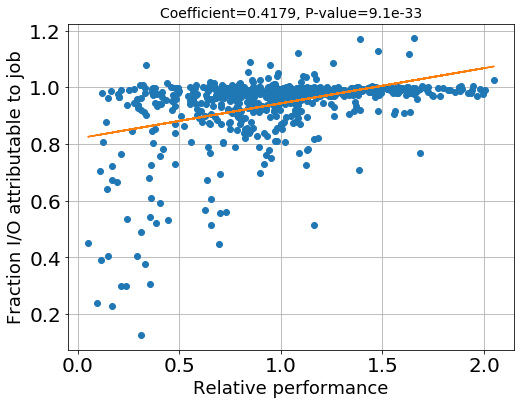
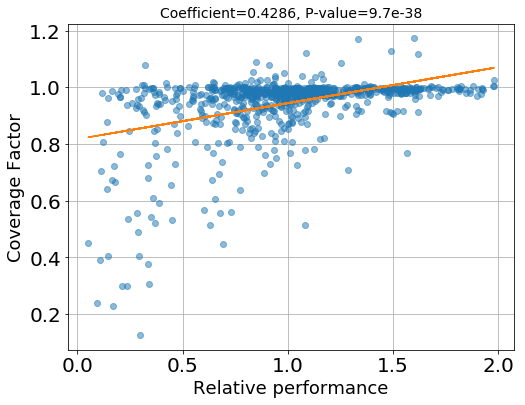
build out the results section a little more, thought it's getting repetetive; also added some of the narrative to the discussion section sans actual data

diff --git a/holistic-io.tex b/holistic-io.tex
@@ -341,23 +341,40 @@ nodes.  By comparison, the three Lustre file systems tested each use a common
 pool of I/O nodes for all of their traffic. \todo{make this less vague}
 
 When grouped by each specific application and read/write mode (Figure
-\ref{fig:tokio-abc-perf-boxplots}), the general trend of file-per-process (fpp)
-I/O performing faster than shared-file becomes evident across all file systems.
-The variance for each file system in Figure \ref{fig:perf-summary-boxplots-fs}
-is proportionate for all applications tested and is not the result of one
-specific workload demonstrating significantly higher variance than the others.  
-That said, there are a subset of exceptions to this; for example, the HACC
-workload demonstrates susceptibility to a long tail of performance degradation
-on mira-fs1 despite that file system's overall lower variance.  The specific
-reason for this will be explored in Section \ref{discussion}.
+\ref{fig:tokio-abc-perf-boxplots}), it becomes clear that the variance of each
+file system in Figure \ref{fig:perf-summary-boxplots-fs} is proportionate for
+all applications tested and is not the result of one specific workload
+demonstrating significantly higher variance than the others.  For example, the
+the trend of file-per-process (fpp) I/O performing faster than shared-file is
+observed across all file systems evaluated, contributing equally to the 
+file system-wide variance shown in Figure \ref{fig:perf-summary-boxplots-fs}.
+
+That said, the variance in performance \emph{within} each application is a
+function of each file system.  For example, the HACC workload demonstrates
+susceptibility to a long tail of performance degradation on mira-fs1 despite
+that file system's overall lower performance variance.  Similarly, scratch3
+demonstrates very broad performance variation for the VPIC write workload that
+is a marked departure from the very tight distributions of VPIC write
+performance on all other file systems.
+
+\textbf{Thus, Figure \ref{fig:tokio-abc-perf-boxplots} demonstrates that the
+performance variability of a file system is not an intrinsic property};
+different I/O patterns result in different levels of variability.  Furthermore,
+these behaviors are not a function of the parallel file system architecture
+either; because scratch1/scratch2/scratch3 are all Lustre file systems (at the
+same version of Lustre), the differences between them are either a result of
+their different hardware configurations (scratch3 vs. scratch1/scratch2), or
+even the specific user distributions across identically configured hardware
+(scratch1 and scratch2).
 
 \begin{figure}[t]
 \centering
 \includegraphics[width=1.0\columnwidth]{figs/perf-boxplots-per-fs.png}
 \caption{TOKIO-ABC I/O performance for Edison (\texttt{scratch1},
 \texttt{scratch2}, \texttt{scratch3}) and Mira (\texttt{mira-fs1}) normalized to
-the mean performance of each file system.  Whiskers represent the 5th and 95th
-percentiles.}
+the mean of all tests performed on each file system.  Each box reflects the
+distribution of all four application workloads and both read and write
+performance. Whiskers represent the 5th and 95th percentiles.}
 \label{fig:perf-summary-boxplots-fs}
 \end{figure}
 
@@ -370,43 +387,6 @@ percentiles.}
 \label{fig:tokio-abc-perf-boxplots}
 \end{figure}
 
-
-%%% Glenn: the following figures are informationally sparse since I don't think
-%%% we want to talk about the time dependence of performance.  I added box plots
-%%% to (hopefully) more concisely show the distribution of performance.
-%
-% Figures \ref{fig:tokio-abc-perf-mira-fs1} and \ref{fig:tokio-abc-perf-edison-scratch1}
-% show the performance of each TOKIO-ABC benchmark run on Mira's \texttt{mira-fs1} GPFS
-% file system and Edison's \texttt{scratch1} Lustre file system, respectively. 
-% 
-% \begin{figure}[h]
-% \centering
-%     \subfigure[write performance]{
-%         \includegraphics[width=\columnwidth]{figs/mira-fs1-write-perf.pdf}
-%         \label{fig:tokio-abc-perf-mira-fs1-write}
-%     }
-%     \subfigure[read performance]{
-%         \includegraphics[width=\columnwidth]{figs/mira-fs1-read-perf.pdf}
-%         \label{fig:tokio-abc-perf-mira-fs1-read}
-%     }
-% \caption{I/O performance for TOKIO-ABC runs on Mira's \texttt{mira-fs1} GPFS file system.}
-% \label{fig:tokio-abc-perf-mira-fs1}
-% \end{figure}
-% 
-% \begin{figure}[h]
-% \centering
-%     \subfigure[write performance]{
-%         \includegraphics[width=\columnwidth]{figs/edison-scratch1-write-perf.pdf}
-%         \label{fig:tokio-abc-perf-edison-scratch1-write}
-%     }
-%     \subfigure[read performance]{
-%         \includegraphics[width=\columnwidth]{figs/edison-scratch1-read-perf.pdf}
-%         \label{fig:tokio-abc-perf-edison-scratch1-read}
-%     }
-% \caption{I/O performance for TOKIO-ABC runs on Edison's \texttt{scratch1} Lustre file system.}
-% \label{fig:tokio-abc-perf-edison-scratch1}
-% \end{figure}
-
 By aggregating the server-side I/O traffic from LMT and ggiostat during the time
 each test was run, we can also define the \emph{coverage factor} ($CF$) of a
 job:
@@ -417,23 +397,25 @@ CF = \frac{N_{\textup{bytes}}^{\textup{Darshan}}}
 \left [ N_{\textup{bytes}}^{\textup{LMT,ggiostat}} \right ] }
 \]
 
-This metric provides a direct indication of if a job had exclusive access to the
-file systems' bandwidth while it was running; a coverage factor of 1.0 indicates
-that all of the server-side bytes were caused by the job that generated the
-Darshan log, while a converage factor of 0.5 indicates that only half of the
-server-side traffic was attributable to the job.
+This metric is a direct reflection of how much I/O traffic the job in question
+was competing against in the underlying file systems.  When $CF = 1.0$,
+all of the server-side bytes were caused by the job that generated the Darshan
+log, while $CF = 0.5$ indicates that only half of the server-side traffic was
+attributable to the job.  In practice, it is possible to observe $CF > 1.0$ if
+the server-side monitoring (e.g., LMT or ggiostat) did not capture data from all
+servers during a polling interval due to UDP packet loss or other factors.
 
-Figure \ref{fig:cdf-coverage} demonstrates the distribution of coverage
-factors across all experiments run.  This distribution indicates that the
-majority of tests ($> 85\%$) have high coverage factor ($ CF > 0.90 $), which
-is consistent with the observation that I/O occurs in bursts\cite{Liu2016}\todo{more}, and the
+The distribution of coverage factors across all experiments run are shown in
+Figure \ref{fig:cdf-coverage}, which indicates that the majority of tests
+($> 85\%$) have high coverage factor ($ CF > 0.90 $).  This is consistent with
+the observation that I/O occurs in bursts~\cite{Carns2011,Liu2016}, and the
 probability of two bursts coinciding and causing interference is relatively
 low.  Despite this low incidence of overlapping bursts, though, the cumulative
-distribution function of performance relative to the peak observed bandwidth
-(Figure \ref{fig:cdf-performance}) is far more evenly distributed; this is a
-clear indication that server-side interference (of which the coverage factor is
-a direct indicator) is far from the only contributor to sub-optimal peformance
-on all file systems tested.
+distribution function (CDF) of performance relative to the peak observed
+bandwidth (Figure \ref{fig:cdf-performance}) is far more broadly distributed.
+This is a clear indication that server-side interference, represented by the
+coverage factor, is only one of many contributors to sub-optimal peformance on
+all file systems tested.
 
 \begin{figure}[h]
 \centering
@@ -451,35 +433,34 @@ factor (\ref{fig:cdf-performance}).}
 \label{fig:coverage-factor-distribution}
 \end{figure}
 
+To more directly understand this relationship between application-side
+performance and server-side contention, we plot these two variables for each
+experiment in Figure \ref{fig:correlate-perf-and-fstraffic}.  Although there is
+no striking visual correlation, this diagram does show that high performance
+($performance > 1.0$) is very unlikely even when server-side contention is only
+modestly high ($CF \leq 0.8$).  More quantitatively, the Pearson correlation
+coefficient between application performance and the coverage factor is modest
+(0.429) but significant (p-value $\approx 10^{-37}$).  This is consistent with
+the previous qualitative observation that the coverage factor is a contributor
+to performance variability, but not the only one.
 
-
-Figure~\ref{fig:tokio-abc-fingerprints} shows example I/O fingerprints for the
-TOKIO-ABC benchmarks on Mira and Edison.  They represent a baseline indication
-of strengths, weaknesses, and susceptibility to variance for each file system.
-This example shows the median performance of several workloads over time, and
-performance is normalized to focus on trends rather than absolute throughput.
-Whiskers indicate minimum and maximum sample values. \todo{What does this tell
-us about high-level similarities/differences between Mira/GPFS and
-Edison/Lustre?}
-
-\begin{figure}[h]
+\begin{figure}[t]
 \centering
-    \subfigure[write benchmarks] {
-        \includegraphics[width=\columnwidth]{figs/tokio-abc-write-fingerprints.pdf}
-        \label{fig:tokio-abc-write-fingerprints}
-    }
-    \subfigure[read benchmarks] {
-        \includegraphics[width=\columnwidth]{figs/tokio-abc-read-fingerprints.pdf}
-        \label{fig:tokio-abc-read-fingerprints}
-    }
-\caption{TOKIO-ABC I/O fingerprints for Mira and Edison.}
-\label{fig:tokio-abc-fingerprints}
+\includegraphics[width=0.8\columnwidth]{figs/edison-perf-vs-fstraffic.png}
+\caption{Correlation between performance, measured by Darshan, and the coverage
+factor, measured by on the storage servers, for all tests run on file systems.
+The performance given is relative to the mean performance measured for each
+unique combination of application, read-write mode, and file system.}
+\label{fig:correlate-perf-and-fstraffic}
+\vspace{-.1in}
 \end{figure}
+
 
 \subsection{Discussion} \label{discussion}
 
 This section will discuss \emph{why} we saw the behavior that we did by
-correlating data sources, then make broader conclusions about the differences
+aligning and correlating data sources, then make broader conclusions about the
+differences
 between Mira and Edison results.  I envision a general approach of extracting
 or calculating \emph{internal} and \emph{external} variables from the data we
 have, where internal variables are measurements from components of the system
@@ -487,39 +468,34 @@ that were exclusively reserved for our jobs (e.g., all data from the compute
 nodes), and external variables are those measurements from components of the
 system that are shared (e.g., the file system servers).
 
-With this premise, we then correlate these variables with performance as
-measured by Darshan, essentially turning this into a smorgasbord of
-multivariate analyses.  For example, Figure \ref{fig:correlate-perf-and-fstraffic}
-shows the relationship between the observed benchmark performance and the
-fraction of server-side traffic that can be attributed to that benchmark.
-In those cases where the benchmark only represented part (e.g., less than 80
-percent) of server-side traffic, benchmark performance was always poor for
-some definition of poor.  Wahid suggested binning the data to reduce the
-number of data points and make the correlation more obvious, or accurately
-conveying the density of points that give rise to the statistically significant
-correlation coefficient.
+We will present the prototype TOKIO dashboard (\ref{fig:edison-haccio-write-dashboard})
+which is an easy way for users to see trends of how well their specific
+workload has performed in the past along with various metrics from Darshan,
+server-side monitoring, and machine-specific sources that may contribute to
+performance.  This has a twofold benefit.
 
-\begin{figure}[t]
-\centering
-\includegraphics[width=0.8\columnwidth]{figs/edison-perf-vs-fstraffic.png}
-%\vspace{-.07in}
-\caption{Correlation between benchmark performance and the amount of
-non-benchmark traffic occurring on the file systems on Edison}
-\label{fig:correlate-perf-and-fstraffic}
-\vspace{-.1in}
-\end{figure}
+Foremost, users can quickly see how their application's performance compares
+to similar I/O workloads in the past.  The boxplots on the right side of the
+dashboard offer a percentile in which the job's performance falls.  In addition,
+the other components that affect I/O performance are also displayed, composing
+what we refer to as the \emph{I/O subsystem weather}, and the relative rarity
+of these states are shown in the accompanying box plots, which we refer to as
+the \emph{I/O subsystem climate}.  By providing a view of the I/O subsystem
+weather and the overall climate, the user can quickly contextualize job
+performance with respect to normal levels of variation.  This context allows
+users to differentiate between a long-term performance problem (as would occur
+if the application I/O is not optimized for the underlying file system) and a
+stastitically rare event analogous to an extreme weather event.
 
-We may also want to consider exploring if the following would be interesting:
+With this framework, we then deep-dive into several specific cases of
+performance degradation identified by the TOKIO dashboard.  For example,
+(\ref{fig:edison-haccio-write-dashboard}) shows a particular date (March 4) on
+which performance was abnormally low while both the coverage factor and metadata
+open/close rates were abnormal.
 
-\begin{itemize}
-\item 1. Some nominally contended jobs showed good performance while others showed bad.  Why?  Correlate with metadata rates measured by backend, or CPU loads that may indicate metadata loads?  Job diameter (mostly relevant to Cray XC)?
-\item 2. Can we calculate some of William's metrics during each day's jobs and correlate with that?  This should be done before the PI meeting next week.
-\end{itemize}
-
-We may also want to deep-dive into one or two specific cases of performance
-degradation to root-cause them.  We have some candidates abnormally slow runs,
-and we also know that VPIC-IO behaves very differently on Mira vs. Edison.
-This would be a good place to showcase William's metrics and methods as well.
+We also know that VPIC-IO behaves very differently on Mira vs. Edison, and this
+might make a good deep dive.  Similarly, understanding HACC's long tail would
+be great.
 
 Once we have shown that we understand several different sources of performance
 loss, we can then establish a taxonomy and enumerate how often bad I/O
@@ -557,15 +533,39 @@ example,
     \end{itemize}
 \end{itemize}
 
-We should refer heavily to past work (see Section \ref{related}) to make sure we
-aren't reinventing anything
-
 If we have enough data to make a statistically significant statement, we should
 aim to discuss how susceptible different file systems are to these bad I/O
 performance root causes to stir up controversy (GPFS is better/worse than
 Lustre when facing problem X).  If we do this, we can also propose strategies
 to work around these common bottlenecks.  For example, can holistic I/O
-monitoring provide a feedback loop for coscheduling?
+monitoring provide a feedback loop for coscheduling?  These would be stretch
+statements.
+
+In addition, we can point out that the dashboard is most useful when an historic
+record of similar jobs executions is already known \emph{a priori}, Liu et al~\cite{Liu2016}
+has demonstrated that it is possible to combine resource manager logs alongside
+server-side I/O logs to identify a series of I/O bursts with specific jobs,
+users, and applications.  Future work may be to incorporate this I/O pattern
+identification algorithm with the TOKIO dashboard to automatically build an
+historic record for any arbitrary job.
+
+It may also be worth saying that the TOKIO dashboard can display an historic
+record for any grouping of I/O patterns.  Although groupings were established
+around specific applications based on Darshan logs, it is equally useful to
+use groupings built around similar periods of server-side traffic.  For example,
+it is possible to identify collections of applications that, when run together,
+produce abnormally poor server-side performance or, conversely, surprisingly
+good performance.  From this would arise an opportunity to inform scheduling
+to optimize for or avoid I/O contention between two frequently conflicting
+applications.
+
+\begin{figure}[t]
+\centering
+\includegraphics[width=1.0\columnwidth]{figs/edison-haccio-write-dashboard.png}
+\caption{Dashboard indicating the performance variation of HACC write workloads
+on the scratch2 file system.}
+\label{fig:edison-haccio-write-dashboard}
+\end{figure}
 
 \section{Related work} \label{related}
 
